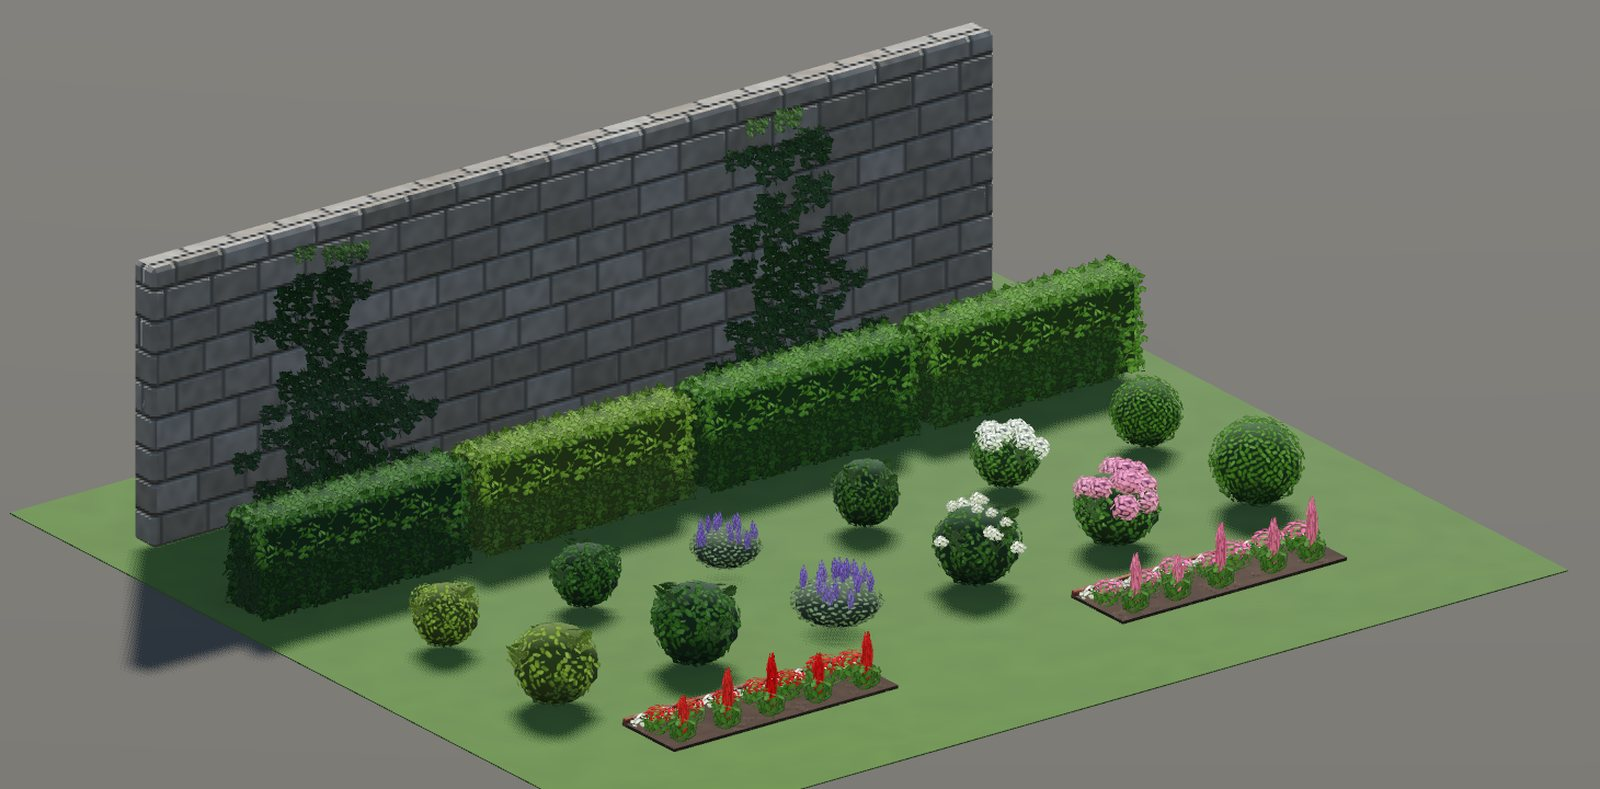
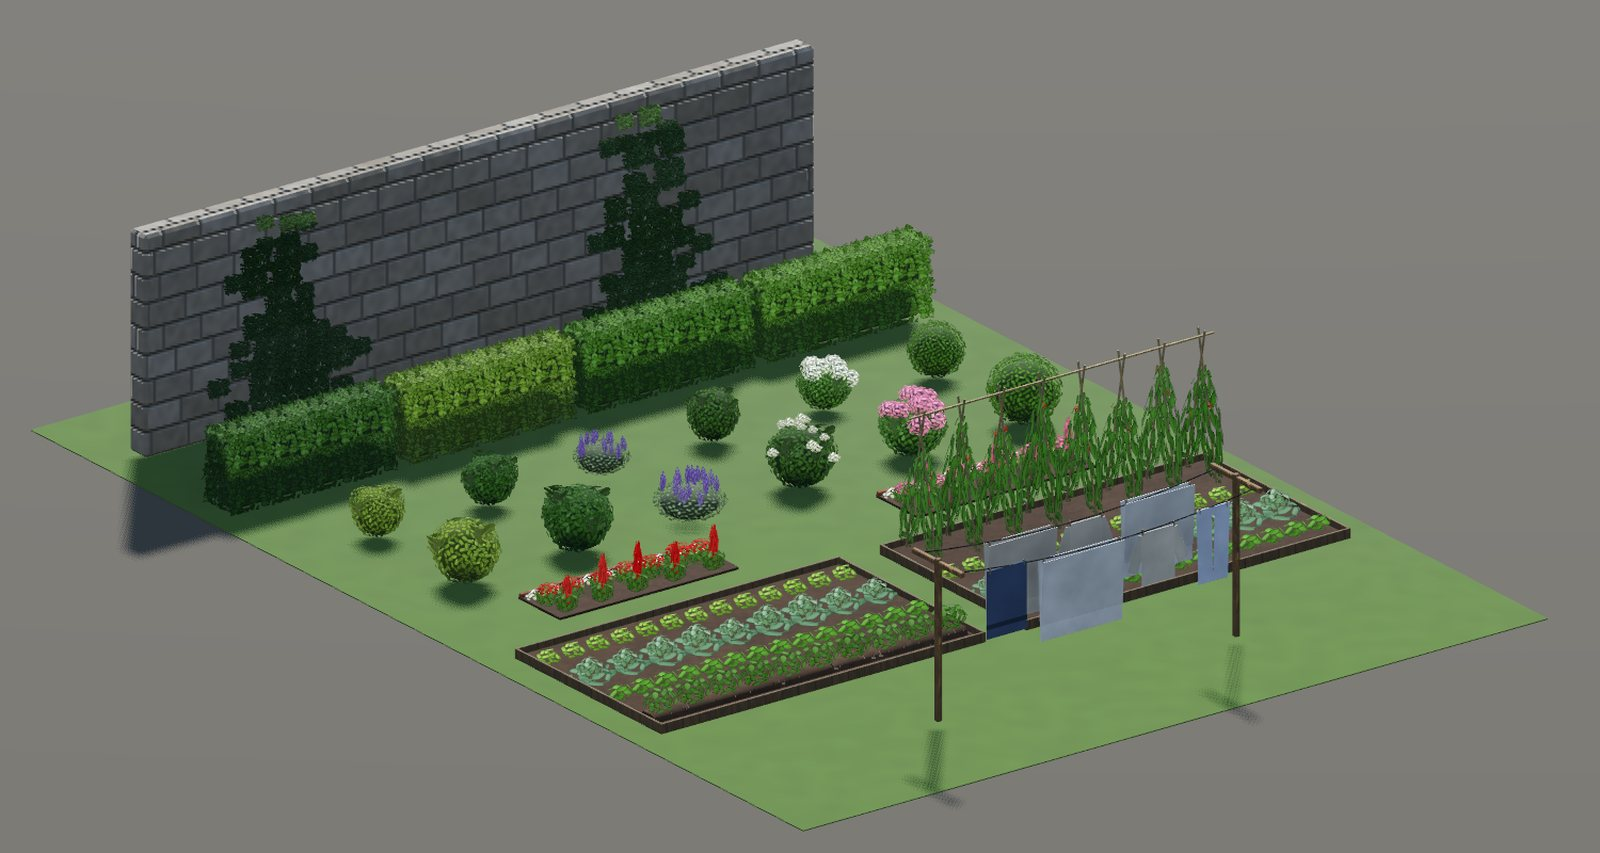
Show the back gardens: the vegetable plot, clipped hedges and ivy beside the front gardens
The comparison gains the town's backyard view (same camera on the house plans
branch through FL_ONLY_VIEW); the planting stage shows the vegetable plots and
a line of washing; the changelog entry describes them.

diff --git a/changelog/unreleased/garden-planting.md b/changelog/unreleased/garden-planting.md
@@ -1,21 +1,23 @@
 +++
 title = "Hedges, shrubs and flower beds in the gardens"
-summary = "Town gardens are planted: rows of box balls, hydrangeas, roses and lavender and beds of flowers in front of the houses, clipped hedges along the street where there's no fence, laurels and other shrubs behind the houses, and ivy that looks like ivy."
+summary = "Town gardens are planted and kept: rows of box balls, hydrangeas, roses and lavender and beds of flowers at the front, clipped hedges along the street and between the gardens, vegetable plots and washing out the back, and ivy that looks like ivy."
 kind = "improved"
 
 [[screenshots]]
 file = "comparison.jpg"
-caption = "Front gardens in the town, and a house's garden, before and after"
+caption = "Front and back gardens in the town, and a house's garden, before and after"
 
 [[screenshots]]
 file = "planting.jpg"
-caption = "Every plant: box balls, hydrangeas, roses, lavender, laurels and golden privet, clipped hedges, beds of flowers and ivy"
+caption = "Every plant: box balls, hydrangeas, roses, lavender, laurels and golden privet, clipped hedges, beds of flowers, vegetable plots, a line of washing and ivy"
 +++
 
 - **Front gardens** with room for it have a bed of flowers, or a row of shrubs of one kind: box balls, hydrangeas with big round heads of flowers, roses or lavender. They're kept clear of the door, the bins and the pots.
 - **Flower beds** are planted in rows the way a gardener does it: spires of flowers at the back, cushions of flowers in the middle and a low white edging in front, in two or three colours.
-- **Clipped hedges** run along the front of nearly half the unfenced gardens, shorn flat and lighter on top, with gaps for the path, the drive and the mailbox.
+- **Clipped hedges** run along the front of nearly half the unfenced gardens, shorn flat and lighter on top, with gaps for the path, the drive and the mailbox. The hedges between the back gardens are kept clipped too. They still give the same cover.
+- **Vegetable plots** have rows of cabbages, lettuces, potatoes and carrots, and on most plots runner beans up crossed canes.
+- **Washing lines** carry sheets, shirts, towels and trousers.
 - **Shrubs** grow at the back corners of many houses, laurels and golden privet among them.
 - **Flowers are their own colours** now, in window boxes and pots by the door too, where before they came out green.
-- **Ivy** on old walls is a mat of leaves with ragged edges, where before it was striped clumps.
-- They're built from the trees' photographed leaves. They're scenery: a shell or a passing truck flattens them, and they give no cover.
+- **Ivy** on old walls is a thick mat of leaves with ragged edges, where before it was striped clumps.
+- The plants are built from the trees' photographed leaves. Apart from the hedges between gardens they're scenery: a shell or a passing truck flattens them, and they give no cover.
